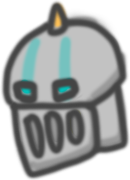
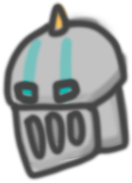
add PNGs to the gitignore, change the command we use to generate PNGs

diff --git a/caligula.js b/caligula.js
@@ -153,6 +153,9 @@ function processFile(fileMetadata) {
 		var partFilename = bodyPartName + '.png';
 		var imageSize = exportCompositeLayerAsPng(fileMetadata, `${folderName}/${partFilename}`, pairIndexes[pairIndex], pairIndexes[pairIndex + 1]);
 		
+		var partFilename2 = bodyPartName + '2.png';
+		imageSize = exportCompositeLayerAsPNG2(fileMetadata, `${folderName}/${partFilename2}`, pairIndexes[pairIndex], pairIndexes[pairIndex + 1]);
+
 		var partInfo = { 'file_name':partFilename, 'width': imageSize.split(' ')[0], 'height': imageSize.split(' ')[1] };
 		fileMetadata.partInfo[bodyPartName] = partInfo; // store as [width, height]
 	}
@@ -191,9 +194,30 @@ function exportCompositeLayerAsPng(fileMetadata, targetFilename, layer1Index, la
 	// magick composite -gravity center 'test/hair_1.psd[2]' 'test/hair_1.psd[1]' hair.png 
 	
 	console.log(`Exporting '${fileMetadata.filename}[${layer1Index}]' '${fileMetadata.filename}[${layer2Index}]' to ${targetFilename}`);
-	console.log(`CLI call is: magick composite -gravity center '${fileMetadata.filename}[${layer1Index}]' '${fileMetadata.filename}[${layer2Index}]' ${targetFilename}`);
-	var cliReturn = execSync(`magick composite -gravity center '${fileMetadata.filename}[${layer1Index}]' '${fileMetadata.filename}[${layer2Index}]' ${targetFilename}`);
-	var cliReturn = execSync(`magick identify -format "%[fx:w] %[fx:h]" ${targetFilename}`);
+	console.log(`CLI call is: magick composite -compose Dst_Over -gravity center '${fileMetadata.filename}[${layer2Index}]' '${fileMetadata.filename}[${layer1Index}]' ${targetFilename}`);
+	var cliReturn = execSync(`magick composite -compose Dst_Over -gravity center '${fileMetadata.filename}[${layer2Index}]' '${fileMetadata.filename}[${layer1Index}]' ${targetFilename}`);
+	cliReturn = execSync(`magick identify -format "%[fx:w] %[fx:h]" ${targetFilename}`);
 
+	return cliReturn.toString();
+}
+
+// does the same as the above method but does it in such a way that the image ends up better
+// this might be the way to do it instead of the above, although this is expensive
+function exportCompositeLayerAsPNG2(fileMetadata, targetFilename, layer1Index, layer2Index) {
+
+	console.log(`Exporting '${fileMetadata.filename}[${layer1Index}]' '${fileMetadata.filename}[${layer2Index}]' to ${targetFilename}`);
+	console.log(`CLI call is: magick composite -gravity center '${fileMetadata.filename}[${layer1Index}]' '${fileMetadata.filename}[${layer2Index}]' ${targetFilename}`);
+	
+	// composite the layers together, this results in an image with a transparent background (despite what the doc says for
+	// ImageMagick, you can just do -background transparent _in front of_ the -layers merge and it works :/ )
+	var cliReturn = execSync(`convert \
+    '${fileMetadata.filename}[${layer2Index}]' \
+    '${fileMetadata.filename}[${layer1Index}]' \
+    -background transparent \
+    -layers merge \
+	${targetFilename}`);
+	
+	// return the size of the resulting image 
+	cliReturn = execSync(`magick identify -format "%[fx:w] %[fx:h]" ${targetFilename}`);
 	return cliReturn.toString();
 }
